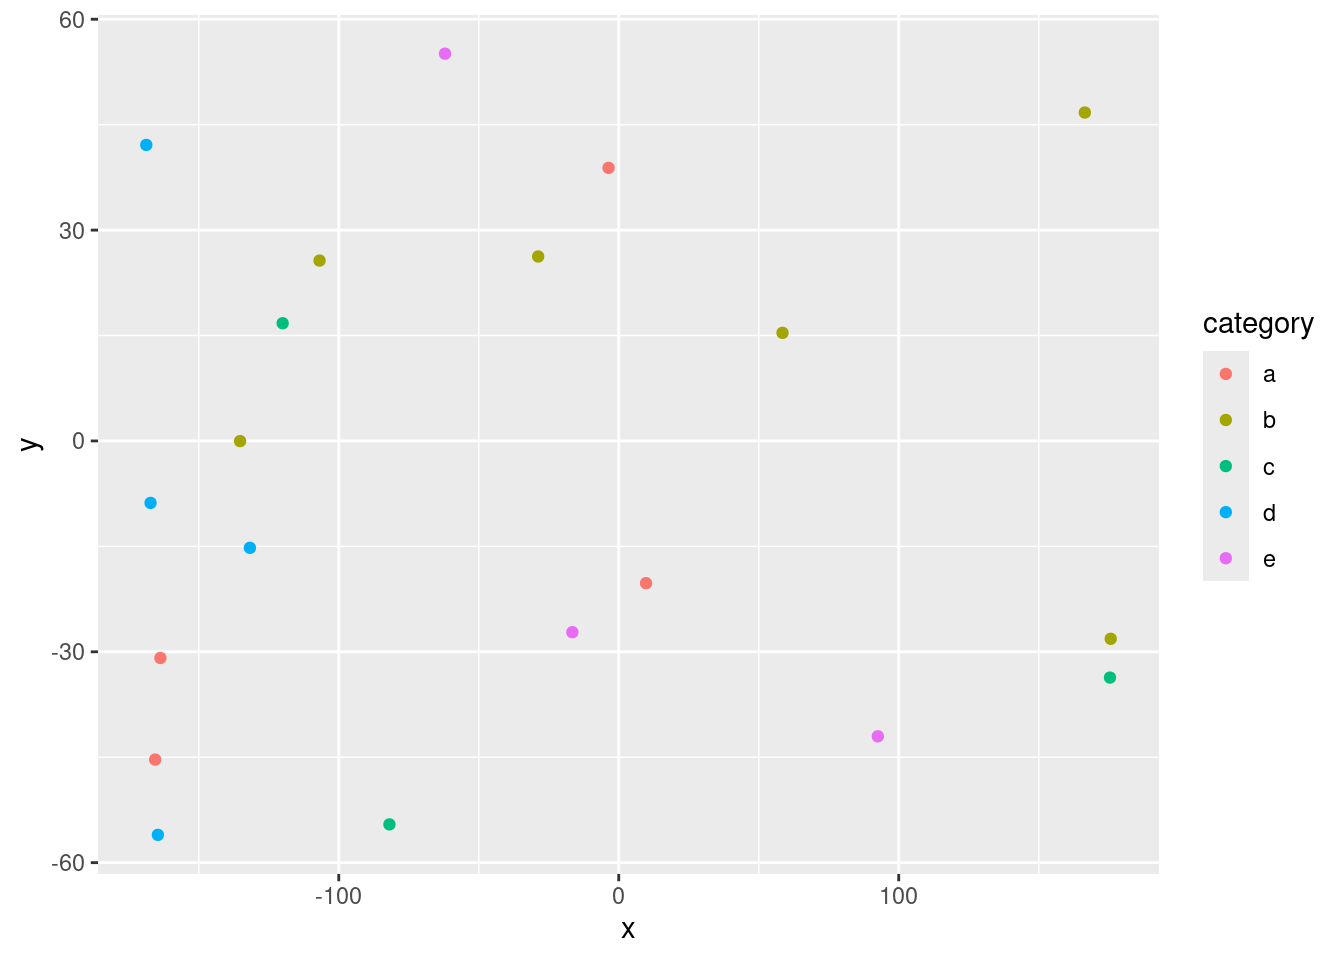
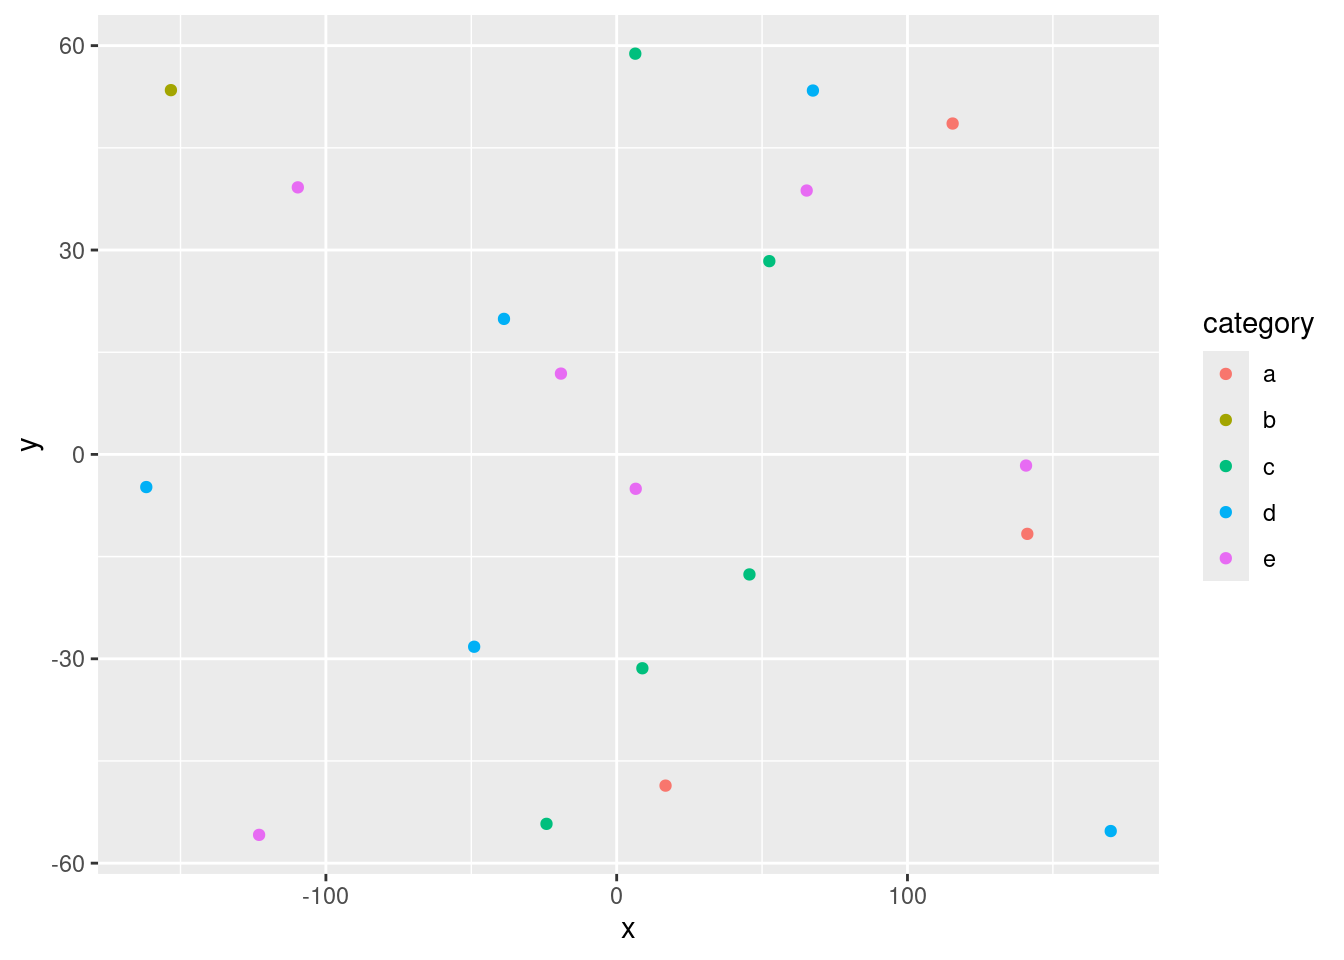
Built site for gh-pages

diff --git a/index.html b/index.html
@@ -6,8 +6,8 @@
 
 <meta name="viewport" content="width=device-width, initial-scale=1.0, user-scalable=yes">
 
-<meta name="author" content="Your name here">
-<meta name="dcterms.date" content="2024-10-14">
+<meta name="author" content="Nicholas Genco">
+<meta name="dcterms.date" content="2024-10-17">
 
 <title>My Final Project Template – GEO511_FinalProject</title>
 <style>
@@ -178,14 +178,14 @@ pre > code.sourceCode > span > a:first-child::before { text-decoration: underlin
     <div>
     <div class="quarto-title-meta-heading">Author</div>
     <div class="quarto-title-meta-contents">
-             <p>Your name here </p>
+             <p>Nicholas Genco </p>
           </div>
   </div>
     
     <div>
     <div class="quarto-title-meta-heading">Published</div>
     <div class="quarto-title-meta-contents">
-      <p class="date">October 14, 2024</p>
+      <p class="date">October 17, 2024</p>
     </div>
   </div>
   
@@ -266,74 +266,74 @@ pre > code.sourceCode > span > a:first-child::before { text-decoration: underlin
 </thead>
 <tbody>
 <tr class="odd">
-<td style="text-align: center;">175.72</td>
-<td style="text-align: center;">-28.15</td>
-<td style="text-align: center;">6.97</td>
-<td style="text-align: center;">b</td>
-<td style="text-align: center;">1.34</td>
-</tr>
-<tr class="even">
-<td style="text-align: center;">-163.70</td>
-<td style="text-align: center;">-30.88</td>
-<td style="text-align: center;">5.49</td>
-<td style="text-align: center;">a</td>
-<td style="text-align: center;">0.47</td>
-</tr>
-<tr class="odd">
-<td style="text-align: center;">-168.74</td>
-<td style="text-align: center;">42.12</td>
-<td style="text-align: center;">18.72</td>
-<td style="text-align: center;">d</td>
-<td style="text-align: center;">-0.58</td>
-</tr>
-<tr class="even">
-<td style="text-align: center;">92.53</td>
-<td style="text-align: center;">-42.02</td>
-<td style="text-align: center;">5.25</td>
-<td style="text-align: center;">e</td>
-<td style="text-align: center;">-0.37</td>
-</tr>
-<tr class="odd">
-<td style="text-align: center;">-164.60</td>
-<td style="text-align: center;">-56.05</td>
-<td style="text-align: center;">16.57</td>
-<td style="text-align: center;">d</td>
-<td style="text-align: center;">-1.50</td>
-</tr>
-<tr class="even">
-<td style="text-align: center;">-106.86</td>
-<td style="text-align: center;">25.66</td>
-<td style="text-align: center;">6.17</td>
-<td style="text-align: center;">b</td>
-<td style="text-align: center;">1.48</td>
-</tr>
-<tr class="odd">
-<td style="text-align: center;">-62.05</td>
-<td style="text-align: center;">55.10</td>
-<td style="text-align: center;">12.81</td>
-<td style="text-align: center;">e</td>
-<td style="text-align: center;">0.79</td>
-</tr>
-<tr class="even">
-<td style="text-align: center;">175.45</td>
-<td style="text-align: center;">-33.67</td>
-<td style="text-align: center;">14.22</td>
+<td style="text-align: center;">8.84</td>
+<td style="text-align: center;">-31.39</td>
+<td style="text-align: center;">15.34</td>
 <td style="text-align: center;">c</td>
-<td style="text-align: center;">-0.44</td>
-</tr>
-<tr class="odd">
-<td style="text-align: center;">-3.64</td>
-<td style="text-align: center;">38.85</td>
-<td style="text-align: center;">17.09</td>
-<td style="text-align: center;">a</td>
-<td style="text-align: center;">0.42</td>
+<td style="text-align: center;">-1.06</td>
 </tr>
 <tr class="even">
-<td style="text-align: center;">58.49</td>
-<td style="text-align: center;">15.38</td>
-<td style="text-align: center;">15.55</td>
+<td style="text-align: center;">6.40</td>
+<td style="text-align: center;">58.82</td>
+<td style="text-align: center;">12.32</td>
+<td style="text-align: center;">c</td>
+<td style="text-align: center;">1.74</td>
+</tr>
+<tr class="odd">
+<td style="text-align: center;">-38.76</td>
+<td style="text-align: center;">19.89</td>
+<td style="text-align: center;">12.17</td>
+<td style="text-align: center;">d</td>
+<td style="text-align: center;">0.74</td>
+</tr>
+<tr class="even">
+<td style="text-align: center;">-153.29</td>
+<td style="text-align: center;">53.47</td>
+<td style="text-align: center;">7.02</td>
 <td style="text-align: center;">b</td>
-<td style="text-align: center;">0.08</td>
+<td style="text-align: center;">-0.65</td>
+</tr>
+<tr class="odd">
+<td style="text-align: center;">-49.01</td>
+<td style="text-align: center;">-28.23</td>
+<td style="text-align: center;">9.93</td>
+<td style="text-align: center;">d</td>
+<td style="text-align: center;">-1.30</td>
+</tr>
+<tr class="even">
+<td style="text-align: center;">169.90</td>
+<td style="text-align: center;">-55.29</td>
+<td style="text-align: center;">12.17</td>
+<td style="text-align: center;">d</td>
+<td style="text-align: center;">-1.09</td>
+</tr>
+<tr class="odd">
+<td style="text-align: center;">-24.13</td>
+<td style="text-align: center;">-54.23</td>
+<td style="text-align: center;">11.80</td>
+<td style="text-align: center;">c</td>
+<td style="text-align: center;">-0.05</td>
+</tr>
+<tr class="even">
+<td style="text-align: center;">140.78</td>
+<td style="text-align: center;">-1.64</td>
+<td style="text-align: center;">14.26</td>
+<td style="text-align: center;">e</td>
+<td style="text-align: center;">0.65</td>
+</tr>
+<tr class="odd">
+<td style="text-align: center;">115.53</td>
+<td style="text-align: center;">48.57</td>
+<td style="text-align: center;">11.30</td>
+<td style="text-align: center;">a</td>
+<td style="text-align: center;">-0.34</td>
+</tr>
+<tr class="even">
+<td style="text-align: center;">45.66</td>
+<td style="text-align: center;">-17.62</td>
+<td style="text-align: center;">14.29</td>
+<td style="text-align: center;">c</td>
+<td style="text-align: center;">-1.01</td>
 </tr>
 </tbody>
 </table>
@@ -355,8 +355,8 @@ pre > code.sourceCode > span > a:first-child::before { text-decoration: underlin
 <span id="cb5-4"><a href="#cb5-4" aria-hidden="true" tabindex="-1"></a>  <span class="fu">addPopups</span>(<span class="sc">~</span>x[<span class="dv">2</span>], <span class="sc">~</span>y[<span class="dv">2</span>], <span class="st">"Random popup"</span>)</span>
 <span id="cb5-5"><a href="#cb5-5" aria-hidden="true" tabindex="-1"></a>m  <span class="co"># a map with the default OSM tile layer</span></span></code><button title="Copy to Clipboard" class="code-copy-button"><i class="bi"></i></button></pre></div>
 <div class="cell-output-display">
-<div class="leaflet html-widget html-fill-item" id="htmlwidget-9b4e03f7a5127db1a405" style="width:100%;height:325px;"></div>
-<script type="application/json" data-for="htmlwidget-9b4e03f7a5127db1a405">{"x":{"options":{"crs":{"crsClass":"L.CRS.EPSG3857","code":null,"proj4def":null,"projectedBounds":null,"options":{}}},"calls":[{"method":"addTiles","args":["https://{s}.tile.openstreetmap.org/{z}/{x}/{y}.png",null,null,{"minZoom":0,"maxZoom":18,"tileSize":256,"subdomains":"abc","errorTileUrl":"","tms":false,"noWrap":false,"zoomOffset":0,"zoomReverse":false,"opacity":1,"zIndex":1,"detectRetina":false,"attribution":"&copy; <a href=\"https://openstreetmap.org/copyright/\">OpenStreetMap<\/a>,  <a href=\"https://opendatacommons.org/licenses/odbl/\">ODbL<\/a>"}]},{"method":"addCircleMarkers","args":[[-28.15127190202475,-30.88049844838679,42.11984451860189,-42.02436801977456,-56.04876830242574,25.66215402446687,55.10129629634321,-33.66938120685518,38.854676540941,15.38033022545278,-45.33889048732817,46.72755595296621,-15.20886358805001,-27.2136143501848,-0.02592670731246471,-54.55557368695736,26.2433023005724,16.74677015282214,-8.819567821919918,-20.23460567928851],[175.7160770986229,-163.6959316581488,-168.7402899842709,92.53487007692456,-164.6005737874657,-106.862512473017,-62.04687804915011,175.4540667682886,-3.638720205053687,58.49248808808625,-165.5739331897348,166.4712191093713,-131.7467869073153,-16.56565127894282,-135.2388823125511,-81.89894548617303,-28.77337021753192,-120.0369822699577,-167.2233158815652,9.752216767519712],[6.974397413432598,5.492751621641219,18.71609801077284,5.254558476153761,16.57396492315456,6.168056627502665,12.81202769954689,14.21751844231039,17.09254463552497,15.55340869352221,18.54851520154625,17.5923538825009,14.12948781857267,9.631794597953558,18.51332528633066,13.83927189512178,14.00602488545701,15.92446935130283,11.69879001798108,16.04698039707728],null,null,{"interactive":true,"className":"","stroke":true,"color":["b","a","d","e","d","b","e","c","a","b","a","b","d","e","b","c","b","c","d","a"],"weight":5,"opacity":0.5,"fill":true,"fillColor":["b","a","d","e","d","b","e","c","a","b","a","b","d","e","b","c","b","c","d","a"],"fillOpacity":0.2},null,null,null,null,null,{"interactive":false,"permanent":false,"direction":"auto","opacity":1,"offset":[0,0],"textsize":"10px","textOnly":false,"className":"","sticky":true},null]},{"method":"addPopups","args":[-30.88049844838679,-163.6959316581488,"Random popup",null,null,{"maxWidth":300,"minWidth":50,"autoPan":true,"keepInView":false,"closeButton":true,"className":""}]}],"limits":{"lat":[-56.04876830242574,55.10129629634321],"lng":[-168.7402899842709,175.7160770986229]}},"evals":[],"jsHooks":[]}</script>
+<div class="leaflet html-widget html-fill-item" id="htmlwidget-7a4cb12c203a16e1ca0e" style="width:100%;height:325px;"></div>
+<script type="application/json" data-for="htmlwidget-7a4cb12c203a16e1ca0e">{"x":{"options":{"crs":{"crsClass":"L.CRS.EPSG3857","code":null,"proj4def":null,"projectedBounds":null,"options":{}}},"calls":[{"method":"addTiles","args":["https://{s}.tile.openstreetmap.org/{z}/{x}/{y}.png",null,null,{"minZoom":0,"maxZoom":18,"tileSize":256,"subdomains":"abc","errorTileUrl":"","tms":false,"noWrap":false,"zoomOffset":0,"zoomReverse":false,"opacity":1,"zIndex":1,"detectRetina":false,"attribution":"&copy; <a href=\"https://openstreetmap.org/copyright/\">OpenStreetMap<\/a>,  <a href=\"https://opendatacommons.org/licenses/odbl/\">ODbL<\/a>"}]},{"method":"addCircleMarkers","args":[[-31.38991663232446,58.82128003053367,19.89154614508152,53.46722742542624,-28.231371184811,-55.28564477339387,-54.22823214903474,-1.635299194604158,48.56656456366181,-17.61874708347023,39.19691006653011,38.73144758865237,-48.61704555340111,-5.046142358332872,53.40876001864672,28.36716329678893,-4.793336698785424,11.86108770780265,-11.66364932432771,-55.8451009914279],[8.835936114192009,6.399970566853881,-38.75933211296797,-153.2949894480407,-49.01240003295243,169.8951301630586,-24.13364382460713,140.7774425111711,115.531473280862,45.65671624615788,-109.6528142597526,65.33999704755843,16.80333732627332,6.550610298290849,67.4838228430599,52.4916551169008,-161.7641116026789,-19.16874719783664,141.2128832191229,-122.9702804982662],[15.33816226175986,12.31749812606722,12.16903222375549,7.01884543756023,9.932853040518239,12.16875240439549,11.80433228146285,14.26285649533384,11.29964840249158,14.28679683129303,13.04228538647294,13.60182302072644,10.95427745720372,13.24056328739971,14.01102231582627,6.386029046261683,19.36205012607388,16.54462244012393,18.17187572014518,17.22811161307618],null,null,{"interactive":true,"className":"","stroke":true,"color":["c","c","d","b","d","d","c","e","a","c","e","e","a","e","d","c","d","e","a","e"],"weight":5,"opacity":0.5,"fill":true,"fillColor":["c","c","d","b","d","d","c","e","a","c","e","e","a","e","d","c","d","e","a","e"],"fillOpacity":0.2},null,null,null,null,null,{"interactive":false,"permanent":false,"direction":"auto","opacity":1,"offset":[0,0],"textsize":"10px","textOnly":false,"className":"","sticky":true},null]},{"method":"addPopups","args":[58.82128003053367,6.399970566853881,"Random popup",null,null,{"maxWidth":300,"minWidth":50,"autoPan":true,"keepInView":false,"closeButton":true,"className":""}]}],"limits":{"lat":[-55.8451009914279,58.82128003053367],"lng":[-161.7641116026789,169.8951301630586]}},"evals":[],"jsHooks":[]}</script>
 <p>Map of completely random data</p>
 </div>
 </div>
@@ -379,8 +379,8 @@ pre > code.sourceCode > span > a:first-child::before { text-decoration: underlin
 <span id="cb7-2"><a href="#cb7-2" aria-hidden="true" tabindex="-1"></a><span class="fu">dygraph</span>(nhtemp, <span class="at">main =</span> <span class="st">"New Haven Temperatures"</span>) <span class="sc">|&gt;</span> </span>
 <span id="cb7-3"><a href="#cb7-3" aria-hidden="true" tabindex="-1"></a>  <span class="fu">dyRangeSelector</span>(<span class="at">dateWindow =</span> <span class="fu">c</span>(<span class="st">"1920-01-01"</span>, <span class="st">"1960-01-01"</span>)) </span></code><button title="Copy to Clipboard" class="code-copy-button"><i class="bi"></i></button></pre></div>
 <div class="cell-output-display">
-<div class="dygraphs html-widget html-fill-item" id="htmlwidget-0b137749e448f0c866cc" style="width:100%;height:464px;"></div>
-<script type="application/json" data-for="htmlwidget-0b137749e448f0c866cc">{"x":{"attrs":{"title":"New Haven Temperatures","labels":["year","V1"],"legend":"auto","retainDateWindow":false,"axes":{"x":{"pixelsPerLabel":60}},"showRangeSelector":true,"dateWindow":["1920-01-01T00:00:00.000Z","1960-01-01T00:00:00.000Z"],"rangeSelectorHeight":40,"rangeSelectorPlotFillColor":" #A7B1C4","rangeSelectorPlotStrokeColor":"#808FAB","interactionModel":"Dygraph.Interaction.defaultModel"},"scale":"yearly","annotations":[],"shadings":[],"events":[],"format":"date","data":[["1912-01-01T00:00:00.000Z","1913-01-01T00:00:00.000Z","1914-01-01T00:00:00.000Z","1915-01-01T00:00:00.000Z","1916-01-01T00:00:00.000Z","1917-01-01T00:00:00.000Z","1918-01-01T00:00:00.000Z","1919-01-01T00:00:00.000Z","1920-01-01T00:00:00.000Z","1921-01-01T00:00:00.000Z","1922-01-01T00:00:00.000Z","1923-01-01T00:00:00.000Z","1924-01-01T00:00:00.000Z","1925-01-01T00:00:00.000Z","1926-01-01T00:00:00.000Z","1927-01-01T00:00:00.000Z","1928-01-01T00:00:00.000Z","1929-01-01T00:00:00.000Z","1930-01-01T00:00:00.000Z","1931-01-01T00:00:00.000Z","1932-01-01T00:00:00.000Z","1933-01-01T00:00:00.000Z","1934-01-01T00:00:00.000Z","1935-01-01T00:00:00.000Z","1936-01-01T00:00:00.000Z","1937-01-01T00:00:00.000Z","1938-01-01T00:00:00.000Z","1939-01-01T00:00:00.000Z","1940-01-01T00:00:00.000Z","1941-01-01T00:00:00.000Z","1942-01-01T00:00:00.000Z","1943-01-01T00:00:00.000Z","1944-01-01T00:00:00.000Z","1945-01-01T00:00:00.000Z","1946-01-01T00:00:00.000Z","1947-01-01T00:00:00.000Z","1948-01-01T00:00:00.000Z","1949-01-01T00:00:00.000Z","1950-01-01T00:00:00.000Z","1951-01-01T00:00:00.000Z","1952-01-01T00:00:00.000Z","1953-01-01T00:00:00.000Z","1954-01-01T00:00:00.000Z","1955-01-01T00:00:00.000Z","1956-01-01T00:00:00.000Z","1957-01-01T00:00:00.000Z","1958-01-01T00:00:00.000Z","1959-01-01T00:00:00.000Z","1960-01-01T00:00:00.000Z","1961-01-01T00:00:00.000Z","1962-01-01T00:00:00.000Z","1963-01-01T00:00:00.000Z","1964-01-01T00:00:00.000Z","1965-01-01T00:00:00.000Z","1966-01-01T00:00:00.000Z","1967-01-01T00:00:00.000Z","1968-01-01T00:00:00.000Z","1969-01-01T00:00:00.000Z","1970-01-01T00:00:00.000Z","1971-01-01T00:00:00.000Z"],[49.9,52.3,49.4,51.1,49.4,47.9,49.8,50.9,49.3,51.9,50.8,49.6,49.3,50.6,48.4,50.7,50.9,50.6,51.5,52.8,51.8,51.1,49.8,50.2,50.4,51.6,51.8,50.9,48.8,51.7,51,50.6,51.7,51.5,52.1,51.3,51,54,51.4,52.7,53.1,54.6,52,52,50.9,52.6,50.2,52.6,51.6,51.9,50.5,50.9,51.7,51.4,51.7,50.8,51.9,51.8,51.9,53]]},"evals":["attrs.interactionModel"],"jsHooks":[]}</script>
+<div class="dygraphs html-widget html-fill-item" id="htmlwidget-36a9eda39157de59b3d5" style="width:100%;height:464px;"></div>
+<script type="application/json" data-for="htmlwidget-36a9eda39157de59b3d5">{"x":{"attrs":{"title":"New Haven Temperatures","labels":["year","V1"],"legend":"auto","retainDateWindow":false,"axes":{"x":{"pixelsPerLabel":60}},"showRangeSelector":true,"dateWindow":["1920-01-01T00:00:00.000Z","1960-01-01T00:00:00.000Z"],"rangeSelectorHeight":40,"rangeSelectorPlotFillColor":" #A7B1C4","rangeSelectorPlotStrokeColor":"#808FAB","interactionModel":"Dygraph.Interaction.defaultModel"},"scale":"yearly","annotations":[],"shadings":[],"events":[],"format":"date","data":[["1912-01-01T00:00:00.000Z","1913-01-01T00:00:00.000Z","1914-01-01T00:00:00.000Z","1915-01-01T00:00:00.000Z","1916-01-01T00:00:00.000Z","1917-01-01T00:00:00.000Z","1918-01-01T00:00:00.000Z","1919-01-01T00:00:00.000Z","1920-01-01T00:00:00.000Z","1921-01-01T00:00:00.000Z","1922-01-01T00:00:00.000Z","1923-01-01T00:00:00.000Z","1924-01-01T00:00:00.000Z","1925-01-01T00:00:00.000Z","1926-01-01T00:00:00.000Z","1927-01-01T00:00:00.000Z","1928-01-01T00:00:00.000Z","1929-01-01T00:00:00.000Z","1930-01-01T00:00:00.000Z","1931-01-01T00:00:00.000Z","1932-01-01T00:00:00.000Z","1933-01-01T00:00:00.000Z","1934-01-01T00:00:00.000Z","1935-01-01T00:00:00.000Z","1936-01-01T00:00:00.000Z","1937-01-01T00:00:00.000Z","1938-01-01T00:00:00.000Z","1939-01-01T00:00:00.000Z","1940-01-01T00:00:00.000Z","1941-01-01T00:00:00.000Z","1942-01-01T00:00:00.000Z","1943-01-01T00:00:00.000Z","1944-01-01T00:00:00.000Z","1945-01-01T00:00:00.000Z","1946-01-01T00:00:00.000Z","1947-01-01T00:00:00.000Z","1948-01-01T00:00:00.000Z","1949-01-01T00:00:00.000Z","1950-01-01T00:00:00.000Z","1951-01-01T00:00:00.000Z","1952-01-01T00:00:00.000Z","1953-01-01T00:00:00.000Z","1954-01-01T00:00:00.000Z","1955-01-01T00:00:00.000Z","1956-01-01T00:00:00.000Z","1957-01-01T00:00:00.000Z","1958-01-01T00:00:00.000Z","1959-01-01T00:00:00.000Z","1960-01-01T00:00:00.000Z","1961-01-01T00:00:00.000Z","1962-01-01T00:00:00.000Z","1963-01-01T00:00:00.000Z","1964-01-01T00:00:00.000Z","1965-01-01T00:00:00.000Z","1966-01-01T00:00:00.000Z","1967-01-01T00:00:00.000Z","1968-01-01T00:00:00.000Z","1969-01-01T00:00:00.000Z","1970-01-01T00:00:00.000Z","1971-01-01T00:00:00.000Z"],[49.9,52.3,49.4,51.1,49.4,47.9,49.8,50.9,49.3,51.9,50.8,49.6,49.3,50.6,48.4,50.7,50.9,50.6,51.5,52.8,51.8,51.1,49.8,50.2,50.4,51.6,51.8,50.9,48.8,51.7,51,50.6,51.7,51.5,52.1,51.3,51,54,51.4,52.7,53.1,54.6,52,52,50.9,52.6,50.2,52.6,51.6,51.9,50.5,50.9,51.7,51.4,51.7,50.8,51.9,51.8,51.9,53]]},"evals":["attrs.interactionModel"],"jsHooks":[]}</script>
 </div>
 </div>
 </section>
